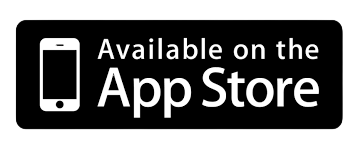
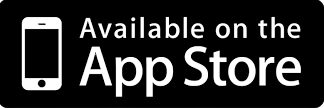
how it works section completed

diff --git a/index.html b/index.html
@@ -155,8 +155,8 @@
             <img class="app-screen" src="resources/img/phone.png" alt="phone-img">
         </div>
         <div class="col span_1_of_2 steps-box">
-            <div class="works-step">
-                <div class="step-1">1</div>
+            <div class="works-step step-1">
+                <div >1</div>
                 <p>Choose plan as per your need and sign up today for our exciting offers !!!</p>
             </div>
             <div class="works-step">
@@ -173,6 +173,16 @@
     </div>
 </section>
 
+<section class="section-cities">
+    <div class="row">
+        <h2>Currentely avaliable in these places:</h2>
+    </div>
+    <div class="row">
+        <div class="col span_1_of_4">
+                
+        </div>
+    </div>
+</section>
     <!-- Main JS -->
     <script src="resources/js/script.js"></script>
     <!-- Icons -->

diff --git a/resources/css/style.css b/resources/css/style.css
@@ -216,6 +216,7 @@ h3{
 
 .works-step{
     margin-bottom:30px ;
+    overflow: hidden;
 }
 
 .step-1{
@@ -231,12 +232,14 @@ h3{
     padding-left: 2px;
 }
 
-.btn-app{
-    width: 20%;
+.btn-app img{
+    width: 300px;
+    height: 100px;
+    margin-right: 15px;
 }
 
 .app-screen{
-    width: 90%;
+    width: 40%;
 }
 
 .works-step div{
@@ -249,5 +252,14 @@ h3{
     text-align: center;
     padding: 5px;
     float: left;
+    margin-right: 20px;
     font-size: 150%;
+}
+
+.works-step:last-of-type{
+    margin-bottom: 120px;
+}
+
+.section-steps{
+    background: #f4f4f4;
 }
